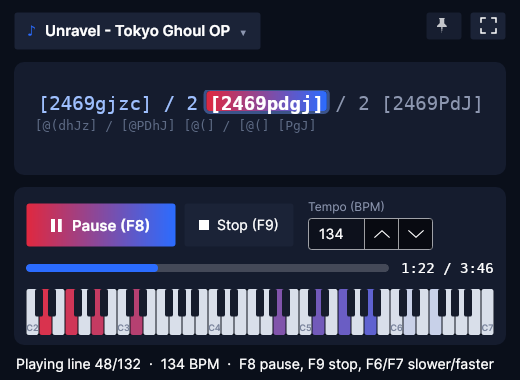
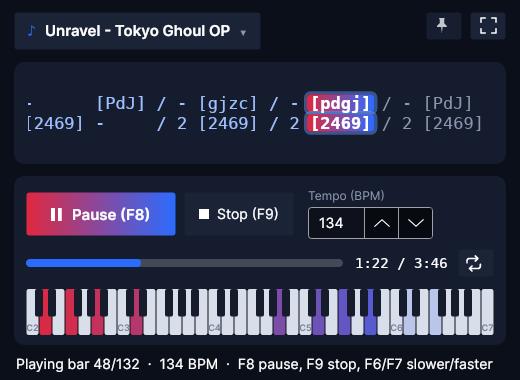
Add files via upload

diff --git a/README.md b/README.md
@@ -19,14 +19,14 @@ Load a sheet or a MIDI file, press **F8** in the game, and listen.
 ---
 
 <p align="center">
-  <img src="assets/screenshot-sheet.png" alt="Virtuoso playing a sheet" width="88%">
+  <img src="assets/screenshot-sheet.png" alt="Virtuoso playing a two-hand sheet, the cursor sweeping through the bar" width="88%">
 </p>
 
 ## ✨ Features
 
 | | |
 |---|---|
-| 🎼 **Sheets** | Paste or import Virtual Piano letter sheets (`.txt`). Three layouts are understood: grid, space-separated and bars (one line = one bar). Settings written at the top of a sheet (`; bpm: 120`) are applied automatically. |
+| 🎼 **Sheets** | Paste or import Virtual Piano letter sheets (`.txt`). Three layouts are understood: grid, space-separated and bars (one line = one bar). Write a bar as an `R:` line with an `L:` line under it and the two hands stay apart, in columns, like a piano score. Settings written at the top of a sheet (`; bpm: 120`) are applied automatically. |
 | 🎹 **MIDI files** | Import `.mid` files, pick the tracks to play, skip drums, and let Virtuoso find the key that fits the 61 in-game keys best. Notes outside the range are moved to the nearest octave. |
 | ⏱ **Precise timing** | A dedicated scheduler keeps every note on time, even for long songs and when you change the speed in the middle of a song. |
 | ⌨ **Global hotkeys** | Control playback from inside the game — no need to switch windows. |
@@ -35,11 +35,11 @@ Load a sheet or a MIDI file, press **F8** in the game, and listen.
 | 🔔 **System tray** | Keeps running quietly in the tray; play, pause and stop from the tray menu. |
 | 🔄 **Automatic updates** | Virtuoso tells you when a new version is out and installs it in one click. Every update is digitally signed and checked before it runs. |
 | 📂 **Your own folders** | Click **Open folder** and every sheet and MIDI file in it shows up in the list, sub-folders included. Files stay where they are, and new ones appear by themselves. You can also drag files or folders onto the window. |
-| ✨ **Follow along** | While a song plays, the note being played lights up in the sheet and the editor scrolls with it. An on-screen piano shows which keys are pressed. |
+| ✨ **Follow along** | While a song plays, a cursor sweeps through the bar in time with the music — through both hands' lines at once — the notes being struck light up and the editor scrolls with it. An on-screen piano shows which keys are pressed. |
 | 📷 **Scan sheet music** <sup>beta</sup> | Cut a page of piano sheet music with <kbd>Win</kbd>+<kbd>Shift</kbd>+<kbd>S</kbd> and press <kbd>Ctrl</kbd>+<kbd>V</kbd> in Virtuoso — or drop images or a PDF on the window. Virtuoso reads the notes, D.S./D.C./Coda jumps, 8va lines and tempo changes included, and writes a sheet you can play right away. The original pages sit beside the editor: the bar being edited or played is marked on them, clicking a bar jumps to its line, bars that may be read wrong are marked in red or amber, and any page can be scanned again on its own. |
 | ⏩ **Seek** | Click or drag on the progress bar to jump anywhere in the song — also while it plays into the game. |
 | 🔁 **Loop a part** | Select some lines and click 🔁 to play them over and over, seamlessly — or right-click the time bar to set A and B, or press <kbd>F4</kbd> twice from the game. Nothing selected loops the whole song. |
-| 🤲 **One hand** | Let Virtuoso play only the right or the left hand (split at middle C) and play the other one yourself. |
+| 🤲 **One hand** | Let Virtuoso play only the right or the left hand and play the other one yourself. Two-hand sheets (`R:` / `L:` lines), scans and MusicXML know exactly which hand plays what; MIDI files use their tracks; other sheets are split at middle C — or turned into `R:` / `L:` lines with one right-click. |
 | 🤝 **Share with a friend** | Link a folder you both sync (Google Drive, OneDrive…): sheets you scan into it show up in your friend's Virtuoso by themselves, original pages included. |
 | 🔊 **Listen first** | The speaker button plays the song through your speakers, without sending any keys to the game. |
 | 🧾 **MusicXML** | Import `.musicxml` / `.mxl` files from MuseScore, Finale, Sibelius and others; repeats and 1st/2nd endings are written out. |
@@ -134,6 +134,21 @@ Any `.txt` or `.mid` file either of you puts in the folder appears too, and when
 ## 🎼 Sheet formats
 
 Virtuoso uses the standard 61-key Virtual Piano layout (C2–C7). Lowercase letters and numbers are white keys, Shift + key are black keys, and `[ ]` plays a chord.
+
+<details open>
+<summary><b>Two hands</b> — an <code>R:</code> line (right hand) with an <code>L:</code> line (left hand) under it is one bar</summary>
+
+```
+; bpm: 95
+; mode: bars
+R: J - / - - / - D / J l
+L: ( w / t Y / - - / - -
+
+R: J - / - j / - s / g h
+L: q t / Y i / ( t / Y i
+```
+Both lines of a bar start together; notes in the same column are struck together. Scans and MusicXML files are written this way, in columns. **Hands → Right hand / Left hand** then plays exactly that line. To turn a one-line sheet into `R:` / `L:` lines, right-click the editor → **Split into right / left hand lines** (it splits at middle C; move any note that went to the wrong hand). Works with every layout below.
+</details>
 
 <details>
 <summary><b>Bars</b> — one line is one bar, <code>/</code> splits the beats</summary>
@@ -231,6 +246,13 @@ In `%AppData%\Virtuoso\Songs`. Click **Open folder** in the app to go there. Uni
 Virtuoso does not collect or send any personal data. The only internet access is the update check, which downloads release information from this page, and — only when you scan sheet music for the first time — the download of the scanner from this page. Scanning itself runs entirely on your computer.
 
 ## 📝 Changelog
+
+**1.3.12** — two-hand sheets and a sweeping cursor
+- New sheet layout: each bar is an `R:` line (right hand) with an `L:` line (left hand) under it, in columns like a piano score. Scans and MusicXML imports are written this way.
+- While a song plays, a cursor sweeps through the bar in time with the music, through both hands' lines; the notes of both hands light up together. The compact player shows both lines.
+- **Hands → Right / Left** plays exactly the `R:` or `L:` line; MIDI files with several tracks use their tracks (the lowest one is the left hand).
+- Right-click → **Split into right / left hand lines** turns a one-line sheet into `R:` / `L:` lines.
+- Bars of two-hand sheets count as one everywhere: Start at bar, loops, F4, the original pages, the bars-to-check marks and page rescans.
 
 **1.3.11** — small screenshots scan better, bug fixes
 - Small screenshots (HD and HD+ screens) scan better: small pages are read two ways and the reading with fewer doubtful bars is kept. On 7 songs captured at HD+, bars that sound right went from 72% to 77%.
